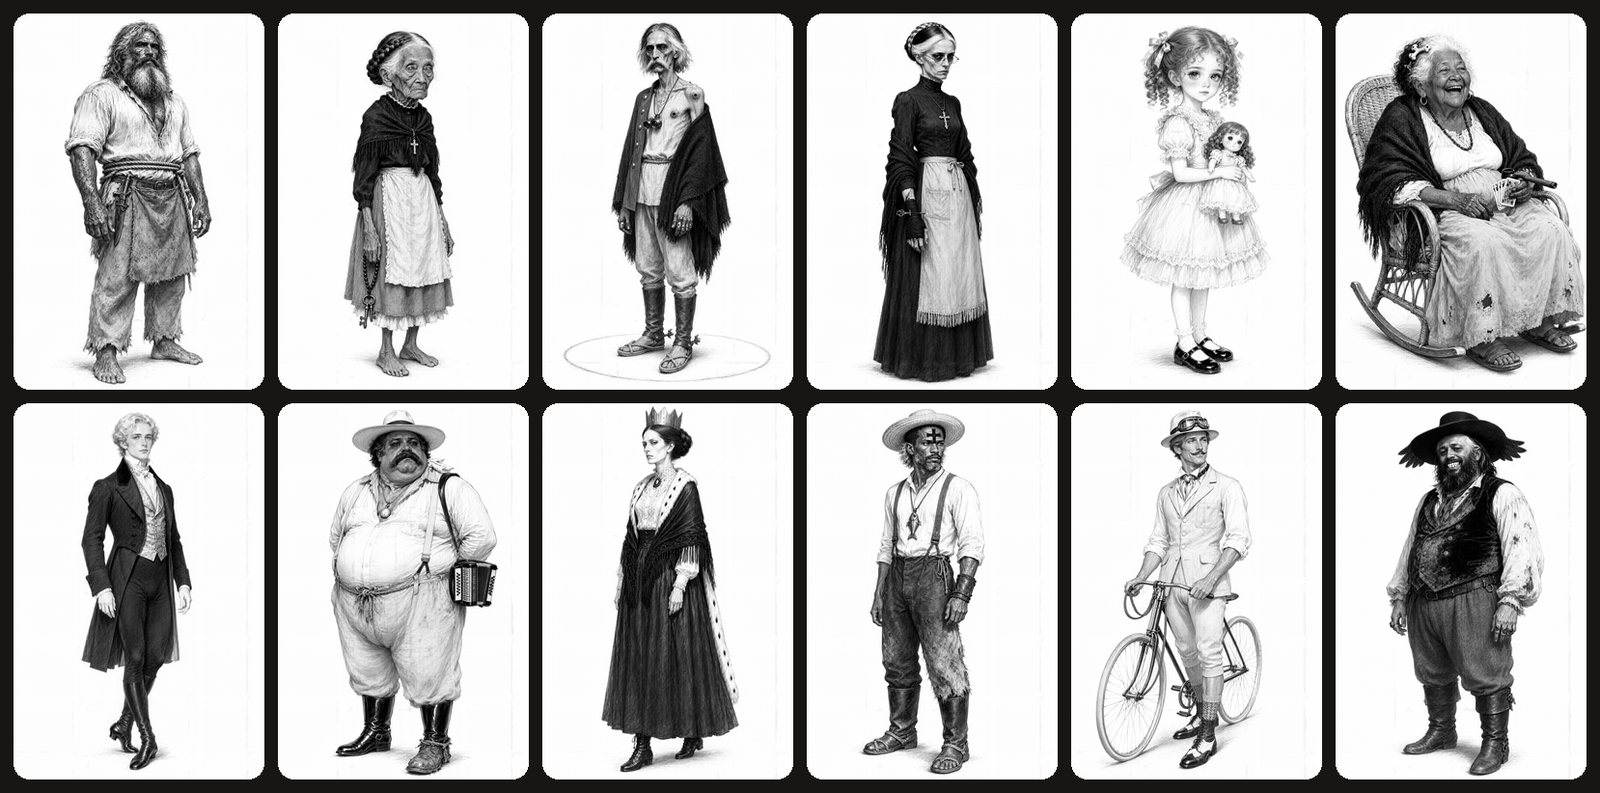
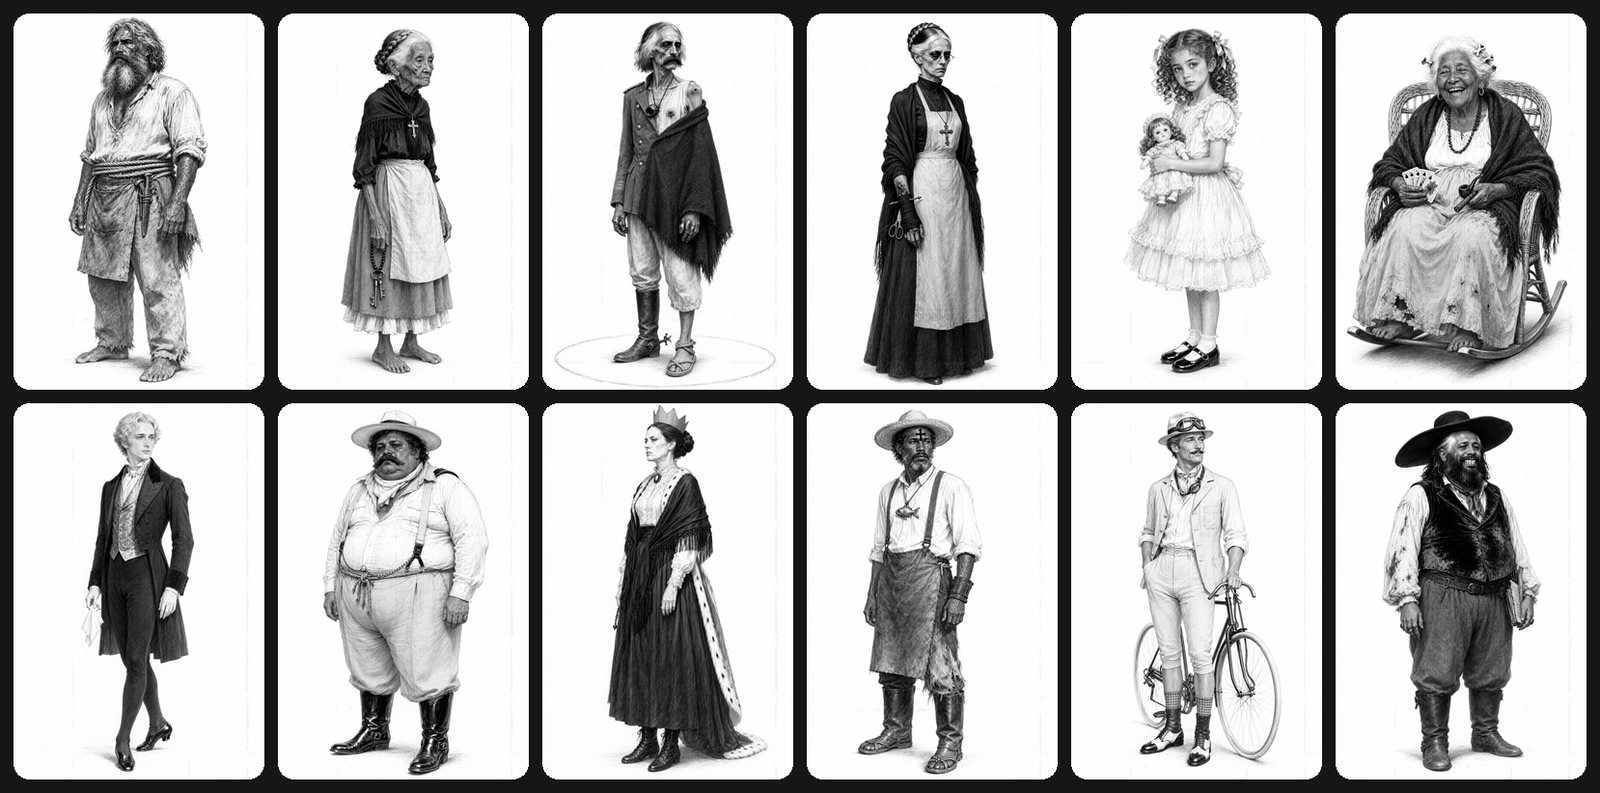
Realistic proportions in pencil, and animal sheets without human parts
Local GPU only; Gemini requests are unchanged.

- Pencil asks human characters for life-drawing proportions at any age and
  adds anime and exaggerated anatomy to the negative prompt: One Hundred
  Years of Solitude had anime faces and bodybuilders. Ethnicity goes in each
  character's author's notes.
- Real animals get the creature plate with a no-human-anatomy negative: the
  regular plate gave Fuego, a horse, a human face and a human hand.
- The One Hundred Years of Solitude gallery shows the redrawn cast.

diff --git a/app/core/imaging.py b/app/core/imaging.py
@@ -264,6 +264,9 @@ LOCAL_SHEET_NEGATIVE = (
     "logo, blurry, extra limbs, deformed anatomy"
 )
 LOCAL_CREATURE_NEGATIVE = LOCAL_SHEET_NEGATIVE + ", humanoid, human body, torso, arms, legs, hands, feet"
+# Real animals use the creature plate too: the regular plate's "head-and-shoulders portraits" and
+# "hands" gave Fuego, a horse, one human face and a human hand. Their legs are wanted.
+LOCAL_ANIMAL_SHEET_NEGATIVE = LOCAL_SHEET_NEGATIVE + ", human face, human hands, human body, anthropomorphic, clothing"
 
 # Forms that get the creature plate. A form that starts with "human" never does, even when it
 # mentions a later transformation (Bowman's "transitioning ... to a non-corporeal" Star-Child).
@@ -283,6 +286,20 @@ COMIC_FIGURE = (
 COMIC_FIGURE_NEGATIVE = (
     ", caricature, exaggerated proportions, oversized head, oversized nose, chibi, grotesque, "
     "deformed body, cartoon mascot"
+)
+
+# Pencil is a realistic drawing style, yet One Hundred Years of Solitude came out mixed: some
+# young women with anime faces and oversized eyes, strong men drawn as bodybuilders ("colossal",
+# "mountainous" in the research). Human characters get a life-drawing proportions sentence (for
+# any age, children included) and a negative against anime and exaggerated anatomy.
+REALISTIC_FIGURE = (
+    "\nThe figure has natural, realistic human proportions and anatomy for its age, like a life\n"
+    "drawing of a real person: strength, weight and age show through build, posture and clothing,\n"
+    "never through exaggeration."
+)
+REALISTIC_FIGURE_NEGATIVE = (
+    ", anime, manga, chibi, oversized eyes, doll face, cartoon, caricature, bodybuilder, "
+    "exaggerated muscles, superhero physique, exaggerated proportions"
 )
 
 # Styles the local model pulls towards realism, tuned on the local backend only. "80s-comic"
@@ -317,6 +334,8 @@ LOCAL_STYLE_TUNING: dict[str, dict[str, Any]] = {
     # MONOCHROME_STYLES finishes the job.
     "pencil": {
         "background": "plain white paper\nwith no background drawn",
+        "figure": REALISTIC_FIGURE,
+        "figure_negative": REALISTIC_FIGURE_NEGATIVE,
         "negative": (
             ", color, colorful, colored pencil, painting, watercolor, sepia, skin tones, photograph, "
             "photorealistic, 3d render"
@@ -456,6 +475,12 @@ def sheet_request(
             # (about 107 s on an RTX 5090).
             "size": "2k",
         }
+        if _is_animal(sheet):
+            return {
+                **request,
+                "prompt": LOCAL_CREATURE_SHEET_PROMPT.format(form=_unquote(sheet.get("form") or ""), **notes),
+                "negative_prompt": LOCAL_ANIMAL_SHEET_NEGATIVE,
+            }
         if is_non_humanoid(character):
             return {
                 **request,
@@ -611,6 +636,12 @@ def _finish(project: dict[str, Any], image: bytes) -> bytes:
 def _local_tuning(project: dict[str, Any]) -> dict[str, Any]:
     """Local-backend adjustments for the project's style (empty for most styles)."""
     return LOCAL_STYLE_TUNING.get(project.get("style", ""), {})
+
+
+def _is_animal(sheet: dict[str, Any]) -> bool:
+    """Real animals (quadrupeds or a form that says so), as opposed to anthropomorphic ones."""
+    form = (sheet.get("form") or "").lower()
+    return "real animal" in form or any(k in form for k in ("quadruped", "four leg", "four-legged"))
 
 
 def _local_posture(sheet: dict[str, Any]) -> str:

diff --git a/docs/local-gpu-evaluation.md b/docs/local-gpu-evaluation.md
@@ -113,6 +113,19 @@ The style therefore has local tuning (white paper background, guidance, anti-col
 is listed in `MONOCHROME_STYLES`: every image of a pencil project is converted to grayscale
 before it is saved, on both backends. In grayscale the same drawings read as graphite.
 
+A first pass over the cast still mixed looks: a few young women came out with anime faces, and
+strong men from descriptions like "colossal" or "mountainous" came out as bodybuilders. Pencil
+now adds a life-drawing proportions sentence for human characters of any age (`REALISTIC_FIGURE`)
+and a negative prompt against anime and exaggerated anatomy. Each character's ethnicity
+(Caribbean-coast mestizo, Afro-Colombian, Wayuu, Andean criollo, and the Italian, Belgian and
+American visitors) went into the author's notes, which take priority in every prompt.
+
+The book's cover is a separate artwork: a pencil drawing generated with yellow butterflies, then
+turned to grayscale everywhere except the yellow, saved as `images/cover.png`; the PDF uses a
+project's `images/cover.png` instead of a location when it exists.
+
+Real animals use the creature plate too: the regular one, with its head-and-shoulders portraits and hands, gave Fuego the horse (*Historia del Rey Transparente*) one human face and a human hand.
+
 Two refinements came from *Death's End*. Singer, a manta-like alien, got human legs and hands
 from the regular plate, as HAL 9000 had on the old sheet, so beings without a human body plan
 get a creature plate (views of the whole being, close-ups of its sensory organs, no hands).

diff --git a/.claude/skills/illustration-prompts/SKILL.md b/.claude/skills/illustration-prompts/SKILL.md
@@ -97,6 +97,8 @@ proportions, because grotesque metaphors in the research turned a few characters
 panel background plus guidance against "photorealistic, painterly, gritty texture, muted colors".
 A style that must be black and white (`pencil`) also goes in `MONOCHROME_STYLES`: `_finish`
 converts every saved image to grayscale, because the color words in the research always won.
+Pencil also uses `REALISTIC_FIGURE` (proportions for any age) against anime faces and bodybuilders.
+Ethnicity and setting belong in each character's author's notes, not in the shared prompts.
 
 ## Changing what a sheet shows
 
